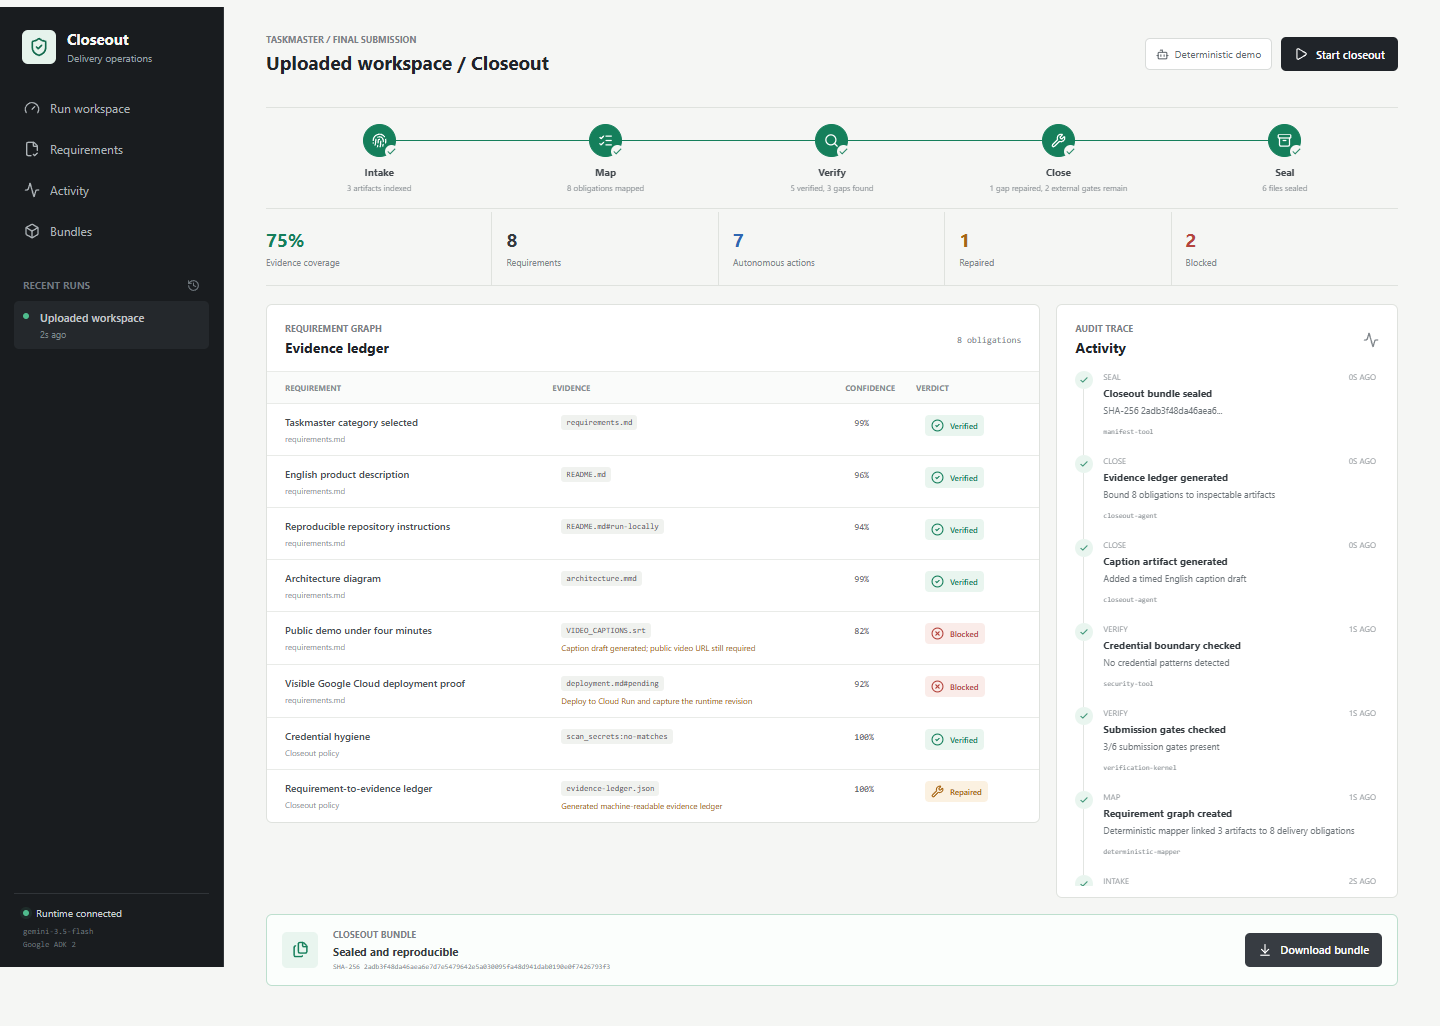
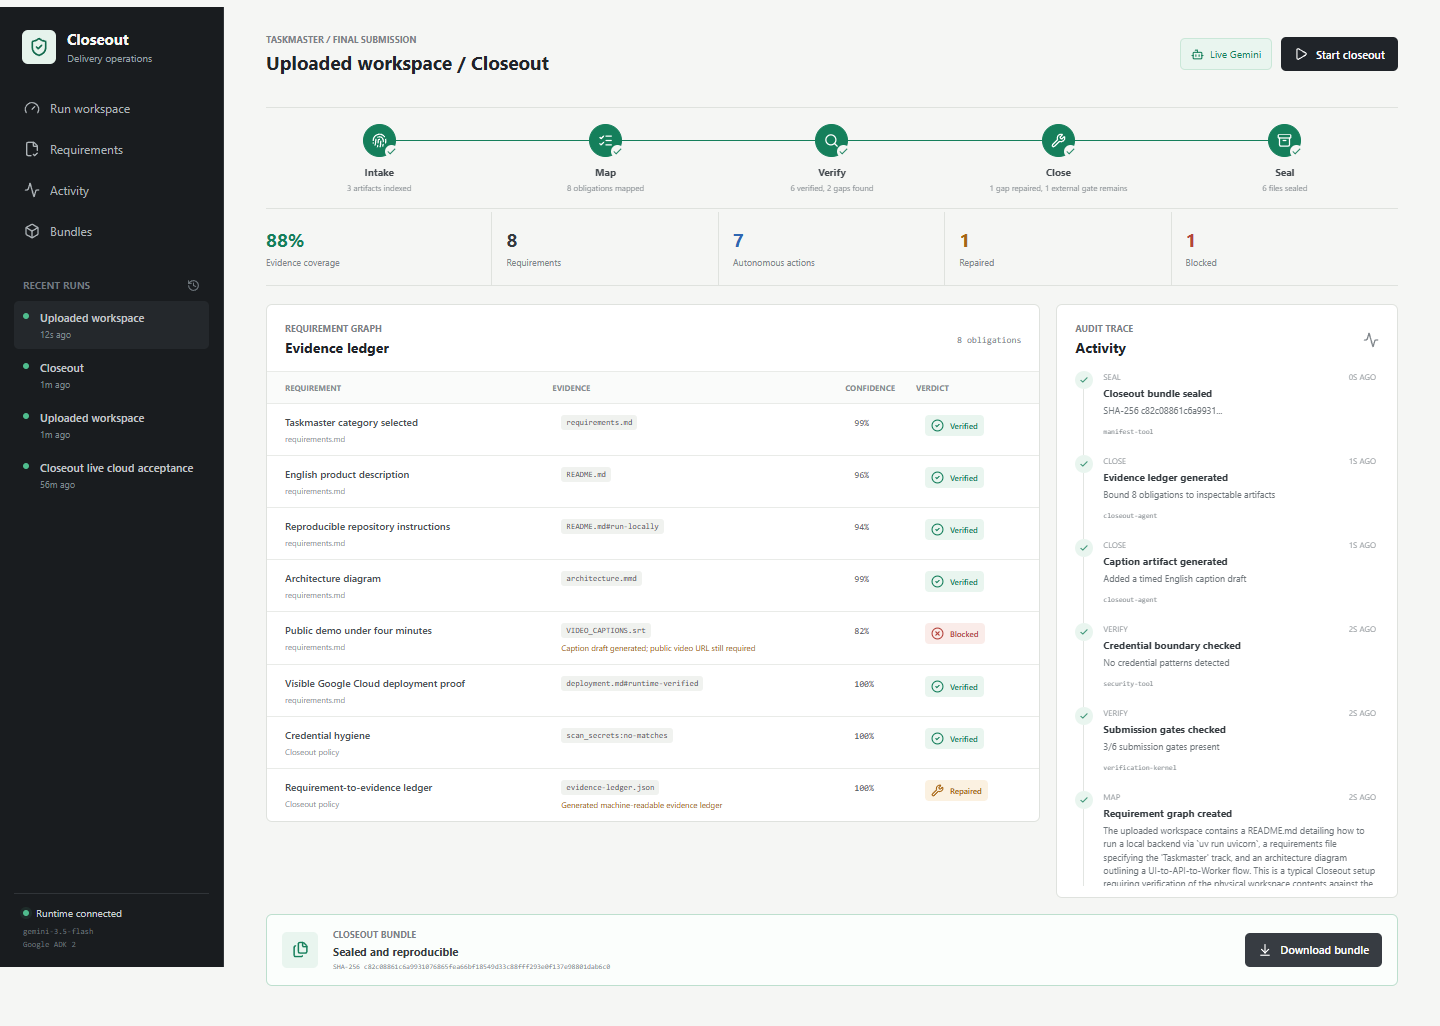
feat: finalize live cloud submission

diff --git a/frontend/e2e/closeout.spec.ts b/frontend/e2e/closeout.spec.ts
@@ -5,12 +5,21 @@ test("completes and downloads an evidence-backed closeout", async ({ page }) => 
   await page.goto("/");
 
   await expect(page.getByText("Runtime connected")).toBeVisible();
+  const health = await page.request.get("/api/health");
+  expect(health.ok()).toBeTruthy();
+  const isLive = (await health.json()).ai_mode === "live-gemini";
+  const screenshotRoot = isLive ? "../docs/images" : "../artifacts/playwright";
+  const upload = page.locator('input[type="file"]');
+  if (!(await upload.isVisible())) {
+    await page.getByRole("button", { name: "Run workspace" }).click();
+  }
+  await expect(upload).toBeAttached();
   await page.screenshot({
-    path: "../docs/images/closeout-preflight-desktop.png",
+    path: `${screenshotRoot}/closeout-preflight-desktop.png`,
     fullPage: true,
   });
 
-  await page.locator('input[type="file"]').setInputFiles([
+  await upload.setInputFiles([
     {
       name: "README.md",
       mimeType: "text/markdown",
@@ -30,10 +39,17 @@ test("completes and downloads an evidence-backed closeout", async ({ page }) => 
   await expect(page.getByText("3 selected", { exact: true })).toBeVisible();
 
   await page.getByRole("button", { name: "Start closeout" }).click();
-  await expect(page.getByText("Sealed and reproducible")).toBeVisible();
-  await expect(page.getByLabel("Run metrics").getByText("75%", { exact: true })).toBeVisible();
+  await expect(page.getByText("Sealed and reproducible")).toBeVisible({ timeout: 120_000 });
+  await expect(
+    page.getByLabel("Run metrics").getByText(isLive ? "88%" : "75%", { exact: true }),
+  ).toBeVisible();
   await expect(page.getByText("8 obligations", { exact: true })).toBeVisible();
-  await expect(page.getByText("1 gap repaired, 2 external gates remain", { exact: true })).toBeVisible();
+  await expect(
+    page.getByText(
+      isLive ? "1 gap repaired, 1 external gate remains" : "1 gap repaired, 2 external gates remain",
+      { exact: true },
+    ),
+  ).toBeVisible();
 
   const downloadPromise = page.waitForEvent("download");
   await page.getByRole("link", { name: "Download bundle" }).click();
@@ -41,7 +57,7 @@ test("completes and downloads an evidence-backed closeout", async ({ page }) => 
   expect(download.suggestedFilename()).toMatch(/^closeout-[a-f0-9]+\.zip$/);
 
   await page.screenshot({
-    path: "../docs/images/closeout-complete-desktop.png",
+    path: `${screenshotRoot}/closeout-complete-desktop.png`,
     fullPage: true,
   });
 
@@ -59,15 +75,20 @@ test("keeps the completed workspace coherent on mobile", async ({ page }) => {
   await page.goto("/");
 
   await expect(page.getByText("Runtime connected")).toBeVisible();
+  const health = await page.request.get("/api/health");
+  expect(health.ok()).toBeTruthy();
+  const isLive = (await health.json()).ai_mode === "live-gemini";
   const start = page.getByRole("button", { name: "Start closeout" });
   if (await start.isEnabled()) {
     await start.click();
-    await expect(page.getByText("Sealed and reproducible")).toBeVisible();
+    await expect(page.getByText("Sealed and reproducible")).toBeVisible({ timeout: 120_000 });
   }
   await expect(page.getByRole("link", { name: "Download bundle" })).toBeVisible();
 
   await page.screenshot({
-    path: "../docs/images/closeout-complete-mobile.png",
+    path: isLive
+      ? "../docs/images/closeout-complete-mobile.png"
+      : "../artifacts/playwright/closeout-complete-mobile.png",
     fullPage: true,
   });
 });

diff --git a/frontend/playwright.config.ts b/frontend/playwright.config.ts
@@ -3,7 +3,7 @@ import { defineConfig } from "@playwright/test";
 export default defineConfig({
   testDir: "./e2e",
   outputDir: "../artifacts/playwright",
-  timeout: 30_000,
+  timeout: 150_000,
   expect: { timeout: 8_000 },
   use: {
     baseURL: process.env.E2E_BASE_URL ?? "http://127.0.0.1:5173",

diff --git a/backend/tests/test_workflow.py b/backend/tests/test_workflow.py
@@ -34,6 +34,8 @@ async def test_local_demo_preserves_external_cloud_blocker_and_seals_bundle() ->
     assert run.metrics.evidence_coverage == 75
     assert run.metrics.repaired == 1
     assert run.metrics.blocked == 2
+    close_stage = next(stage for stage in run.stages if stage.id == "close")
+    assert close_stage.summary == "1 gap repaired, 2 external gates remain"
     cloud = next(item for item in run.requirements if item.id == "cloud")
     assert cloud.verdict == Verdict.BLOCKED
     assert cloud.evidence == ["deployment.md#pending"]
@@ -78,6 +80,8 @@ async def test_cloud_runtime_evidence_closes_external_gate(monkeypatch: pytest.M
     assert run is not None
     assert run.metrics.evidence_coverage == 88
     assert run.metrics.blocked == 1
+    close_stage = next(stage for stage in run.stages if stage.id == "close")
+    assert close_stage.summary == "1 gap repaired, 1 external gate remains"
     cloud = next(item for item in run.requirements if item.id == "cloud")
     assert cloud.verdict == Verdict.VERIFIED
     assert cloud.evidence == ["deployment.md#runtime-verified"]

diff --git a/backend/app/workflow.py b/backend/app/workflow.py
@@ -351,8 +351,10 @@ class CloseoutWorkflow:
             "Bound 8 obligations to inspectable artifacts",
             "closeout-agent",
         )
+        gate_summary = "gate remains" if run.metrics.blocked == 1 else "gates remain"
         summary = (
-            f"{run.metrics.repaired} gap repaired, {run.metrics.blocked} external gates remain"
+            f"{run.metrics.repaired} gap repaired, "
+            f"{run.metrics.blocked} external {gate_summary}"
         )
         await self._finish(run, "close", summary)
 

diff --git a/docs/TEST_EVIDENCE.md b/docs/TEST_EVIDENCE.md
@@ -1,25 +1,33 @@
 # Verification evidence
 
-Verified locally on Windows on 2026-08-25. These gates establish source and
-container behavior; they do not establish a live Google Cloud deployment.
+Verified locally on Windows and against the live Google Cloud deployment on
+2026-08-25.
 
 | Gate | Command | Result |
 | --- | --- | --- |
 | Python lint | `uv run ruff check backend` | Pass |
 | Python types | `uv run mypy backend/app` | Pass |
 | Dependency consistency | `uv pip check` and `npm audit --omit=dev` | Pass, 0 incompatible packages and 0 vulnerabilities |
-| Backend behavior | `uv run pytest -W error --cov=backend.app --cov-report=term-missing` | 13 passed, 84% line coverage, no warnings |
+| Backend behavior | `uv run pytest -W error --cov=backend.app --cov-report=term-missing` | 14 passed, 86% line coverage, no warnings |
 | TypeScript | `npm run typecheck` | Pass |
 | Component tests | `npm test` | 1 passed |
 | Production build | `npm run build` | Pass |
 | Browser journeys | `npm run e2e` | 2 passed, desktop and mobile |
 | PowerShell parser | Parses `scripts/deploy.ps1` without errors | Pass |
-| OCI image build | Locked `uv sync --locked --no-dev --no-editable` build | Pass, 112,513,109 bytes |
-| Container identity | `docker exec closeout-verification id` | Pass, non-root UID/GID 100/101 |
+| OCI image build | Locked `uv sync --locked --no-dev --no-editable` build | Pass, 112,511,301 bytes |
+| Container identity | `docker exec closeout-final-verification id` | Pass, non-root UID/GID 100/101 |
 | Container workflow | Health, run, metrics, ZIP, and manifest hash smoke | Pass, 8/8 manifest entries accounted for |
-| Container browser journeys | `$env:E2E_BASE_URL='http://127.0.0.1:8082'; npm run e2e` | 2 passed, desktop and mobile |
+| Container browser journeys | `$env:E2E_BASE_URL='http://127.0.0.1:8083'; npm run e2e` | 2 passed, desktop and mobile |
 | Static asset containment | Traversal probes using raw and percent-encoded parent segments | Pass, all rejected with HTTP 404 while `/` remained HTTP 200 |
 | Recording truth gate | Run recorder against deterministic local runtime | Pass, refused recording until `live-gemini` is reported |
+| Public health | `GET /api/health` on Cloud Run | Pass, `live-gemini`, Firestore, Google Cloud Tasks |
+| Cloud identity boundary | Public internal-task POST and anonymous worker POST | Pass, HTTP 405 and HTTP 403 respectively |
+| Public browser journeys | `$env:E2E_BASE_URL='https://closeout-7ejjj4sb5a-uc.a.run.app'; npm run e2e` | 2 passed, desktop and mobile |
+| Live agent workflow | Uploaded three real text artifacts | Pass, run `99dd0f732e31`, 88% coverage, Gemini/ADK event persisted |
+| Task delivery | Cloud Run worker request log | Pass, HTTP 202 in 8.67 seconds on revision `closeout-worker-00003-2px` |
+| Live bundle | Download and independently hash ZIP plus manifest entries | Pass, bundle `c82c0886...` matched and 5/5 listed entries matched |
+| Live demo capture | `npm run record:demo` against the public URL | Pass, 74.08 seconds, 1280 x 720, 3,741,666 bytes, SHA-256 `c24a29ef...` |
+| Public CI | GitHub Actions `verify` for commit `2402050` | Pass, backend, frontend, and 2 browser journeys |
 
 The browser journey uploads three text artifacts, completes the five-stage
 workflow, verifies the 75% evidence score, one autonomous repair, two preserved
@@ -30,14 +38,16 @@ run from history, and uses the Bundles navigation to reach the download control.
 The container workflow independently recomputed the downloaded bundle SHA-256,
 then checked the byte length and SHA-256 of every file listed in `MANIFEST.json`.
 The final image was also probed with `curl --path-as-is` to ensure SPA fallback
-resolution cannot escape the built frontend directory.
+resolution cannot escape the built frontend directory. The final live bundle
+contained six ZIP members: five evidence files listed in `MANIFEST.json` plus
+the manifest itself. The live demo was decoded in Chromium at seven points from
+the opening title through the sealed bundle and passed nonblank-frame checks.
 
 ## Evidence boundary
 
 - **Verified:** deterministic local workflow, upload constraints, action
-allowlist, atomic processing leases, structured AI schema boundary, retries,
-stable ZIPs, responsive UI.
-- **Implemented but not live-verified:** ADK/Gemini call, Firestore repository,
-  Cloud Tasks dispatcher, Cloud Run topology, and IAM bootstrap.
-- **Pending external proof:** hosted Cloud Run URL, live Gemini event, public
-  repository URL, public demo video, social post, and Devpost submission receipt.
+  allowlist, atomic processing leases, structured AI schema boundary, retries,
+  stable ZIPs, responsive UI, public/private Cloud Run topology, Gemini 3.5 Flash
+  through Google ADK, Cloud Tasks dispatch, Firestore persistence, and public CI.
+- **Pending external proof:** public hosting for the locally verified demo video,
+  social post, and Devpost submission receipt.

diff --git a/README.md b/README.md
@@ -6,6 +6,10 @@ checks and repairs in the background, then seals a reproducible audit bundle.
 
 Built for the **Taskmaster** track of the 2026 All Things Agentic Hackathon.
 
+**Live app:** https://closeout-7ejjj4sb5a-uc.a.run.app
+
+**Source:** https://github.com/chnoorlee/closeout-agent
+
 ![Closeout completed run](docs/images/closeout-complete-desktop.png)
 
 ## Why it exists
@@ -128,10 +132,9 @@ Deployment and rollback details are in [docs/DEPLOYMENT.md](docs/DEPLOYMENT.md).
 
 ## Evidence boundary
 
-The repository proves local behavior and contains the production deployment
-path. It does **not** by itself prove that Cloud Run is live, that a video is
-public, or that Devpost accepted the entry. Those claims stay pending until the
-corresponding external systems are checked.
+The public service and repository are live and independently verified. A public
+video and Devpost acceptance receipt are still external requirements; those
+claims remain pending until their corresponding systems confirm them.
 
 ## License
 

diff --git a/docs/DEPLOYMENT.md b/docs/DEPLOYMENT.md
@@ -50,6 +50,17 @@ means rollback does not remove run evidence.
 
 ## Current status
 
-The local application and deployment script are verified. A public Cloud Run URL
-is pending an authenticated, billing-enabled project and must not be represented
-as complete until the live checks above pass.
+The production topology is live in `us-central1`:
+
+- Public app: `https://closeout-7ejjj4sb5a-uc.a.run.app`
+- Private worker: `https://closeout-worker-7ejjj4sb5a-uc.a.run.app`
+- Public revision: `closeout-00003-pd6`
+- Worker revision: `closeout-worker-00003-2px`
+- Verified run: `99dd0f732e31`
+
+The run completed in `live-gemini` mode through Cloud Tasks, persisted in
+Firestore, produced an 88% evidence score, and sealed bundle SHA-256
[1 lines of base64/hex data omitted]
+The worker returned HTTP 202 in 8.67 seconds and rejects anonymous calls with
+HTTP 403. Both services run the same immutable image digest,
+`sha256:5ea97cbbfaa1d83fe28d8dd95d05a301cfdb8860cec7b6bb564474c6436afb85`.

diff --git a/docs/DEVPOST_SUBMISSION.md b/docs/DEVPOST_SUBMISSION.md
@@ -104,7 +104,7 @@ FastAPI, Pydantic, React, TypeScript, Vite, Playwright, Docker, and Python.
 
 ## Links
 
-- Try it: `[PENDING_CLOUD_RUN_URL]`
+- Try it: `https://closeout-7ejjj4sb5a-uc.a.run.app`
 - Source: `https://github.com/chnoorlee/closeout-agent`
 - Demo video: `[PENDING_PUBLIC_VIDEO_URL]`
 - Architecture diagram: `frontend/public/closeout-system.png`

diff --git a/docs/PUBLIC_BUILD_POST.md b/docs/PUBLIC_BUILD_POST.md
@@ -22,7 +22,7 @@ Demo: `[PENDING_PUBLIC_VIDEO_URL]`
 
 Source: `https://github.com/chnoorlee/closeout-agent`
 
-App: `[PENDING_CLOUD_RUN_URL]`
+App: `https://closeout-7ejjj4sb5a-uc.a.run.app`
 
 ## Social draft
 
